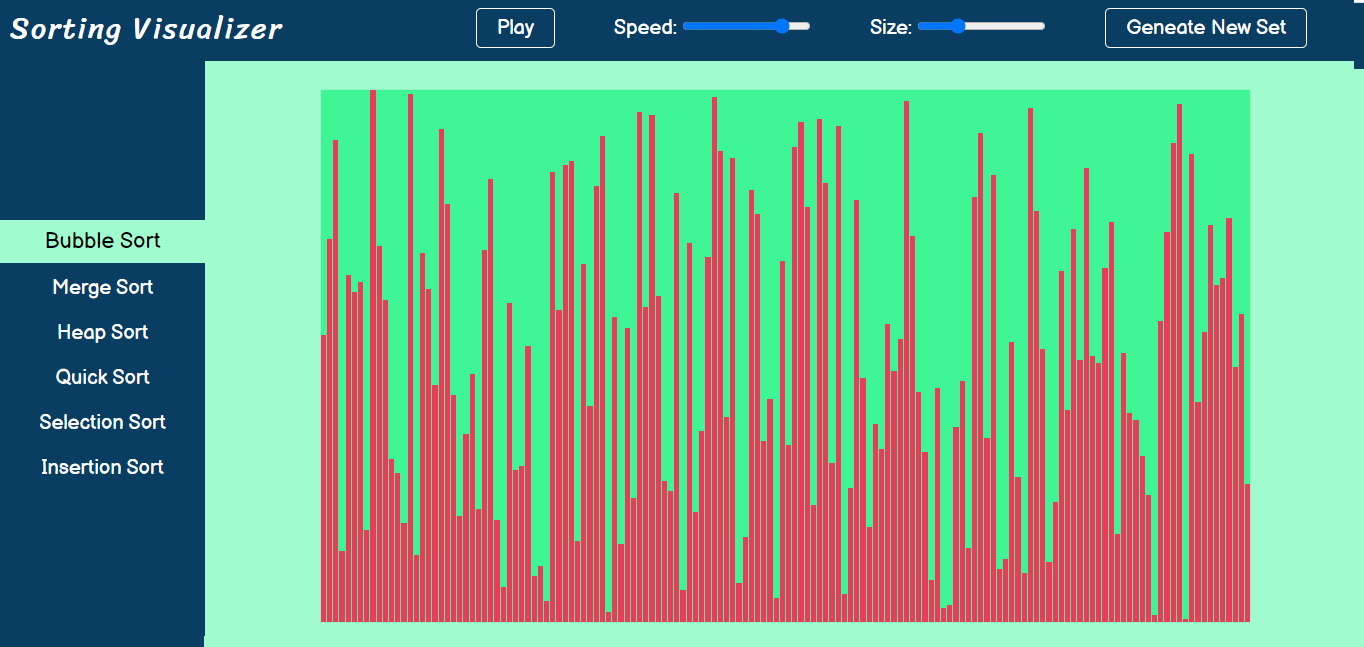
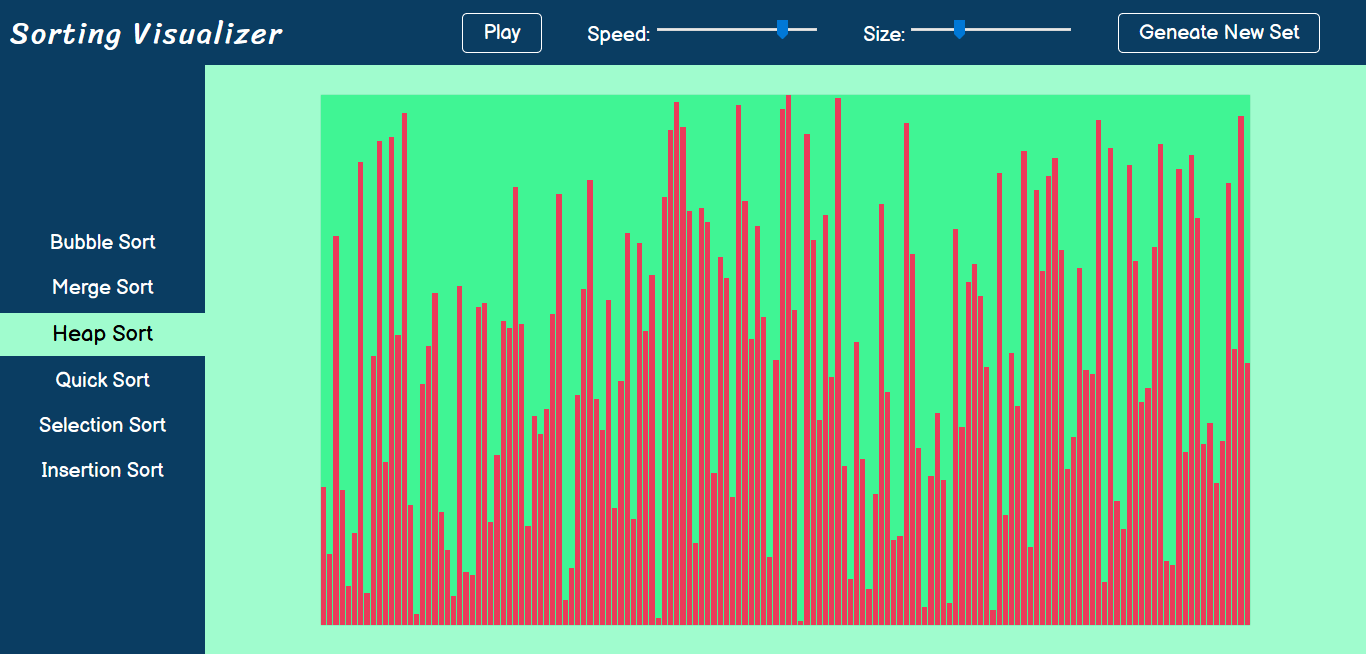
added images to all projects

diff --git a/portfolioPages/data_json.js b/portfolioPages/data_json.js
@@ -2,7 +2,7 @@ let jsonData = {
     section1: {
         id:1,
         title: "Vanilla JS Projects",
-        count: 2,
+        count: 4,
         tiles: {
             tile1:{
                 id: 1,
@@ -13,11 +13,25 @@ let jsonData = {
             },
             tile2:{
                 id: 2,
-                name: "Jokes API",
-                description:"Lorem ipsum dolor sit amet consectetur adipisicing elit. Vitae, reiciendis!",
+                name: "Sorting Visualizer",
+                description:"Visualize the sorting algoriths using an unsorted array of custom length at custom speeds. The sorting methods available are Heap Sort, Merge Sort, Quick Sort, Bubble Sort, Insertion Sort, Selection Sort.",
+                imgSrc:"img_proj/sorting.png",
+                link:"https://stephenmarri.github.io/js_projects/sortingVisualizer/"
+            },
+            tile3:{
+                id: 3,
+                name: "Mathematical Functions",
+                description:"A page that helps to validate if a given number meets a particular known criteria. The criterion being Prime, Palindrom, Fibonacci, Perfect Square and Perfect cube.",
                 imgSrc:"img_proj/math.png",
-                link:"https://stephenmarri.github.io/js_projects/ciphers/"
-            }
+                link:"https://stephenmarri.github.io/js_projects/mathFunctions/"
+            },
+            tile4:{
+                id: 4,
+                name: "Jokes API",
+                description:"A page that fetches jokes from free API endpoints. The caterogies or APIs for this jokes are related ro referenced to Chuck Norris API, icanhazdadjokes API, Geek Jokes api from a user of GitHub",
+                imgSrc:"img_proj/dadjokes.png",
+                link:"https://stephenmarri.github.io/singletons/randomDadJokes/"
+            },
         }
     },
     section2: {
@@ -111,38 +125,38 @@ let jsonData = {
         tiles: {
             tile1:{
                 id: 1,
-                name: "Encryption Algorithms",
-                description:"A utility which converts or encrypts a given senctence or phrase into and encrypted version using the Ceaser's Cipher mechanism. It also converts using a secret key.",
-                imgSrc:"img_proj/ciphers.png",
-                link:"https://stephenmarri.github.io/js_projects/ciphers/"
+                name: "Documentation Pages",
+                description:"",
+                imgSrc:"img_proj/fcc_documentation.png",
+                link:"https://stephenmarri.github.io/freeCodeCampActivites/documentationPages/"
             },
             tile2:{
                 id: 2,
-                name: "Jokes API",
+                name: "Tribute Pages",
                 description:"Lorem ipsum dolor sit amet consectetur adipisicing elit. Vitae, reiciendis!",
-                imgSrc:"img_proj/ciphers.png",
-                link:"https://stephenmarri.github.io/js_projects/ciphers/"
+                imgSrc:"img_proj/fcc_tribute.jpg",
+                link:"https://stephenmarri.github.io/freeCodeCampActivites/tributePages/"
             },
             tile3:{
                 id: 3,
-                name: "Jokes API",
+                name: "Product Landing Page",
                 description:"Lorem ipsum dolor sit amet consectetur adipisicing elit. Vitae, reiciendis!",
-                imgSrc:"img_proj/ciphers.png",
-                link:"https://stephenmarri.github.io/js_projects/ciphers/"
+                imgSrc:"img_proj/fcc_landing.png",
+                link:"https://stephenmarri.github.io/freeCodeCampActivites/landingPages/"
             },
             tile4:{
                 id: 4,
-                name: "Jokes API",
+                name: "Survey Forms",
                 description:"Lorem ipsum dolor sit amet consectetur adipisicing elit. Vitae, reiciendis!",
-                imgSrc:"img_proj/ciphers.png",
-                link:"https://stephenmarri.github.io/js_projects/ciphers/"
+                imgSrc:"img_proj/fcc_form.png",
+                link:"https://stephenmarri.github.io/freeCodeCampActivites/surveyForms/"
             },
             tile5:{
                 id: 5,
-                name: "Jokes API",
+                name: "Portfolio Page",
                 description:"Lorem ipsum dolor sit amet consectetur adipisicing elit. Vitae, reiciendis!",
-                imgSrc:"img_proj/ciphers.png",
-                link:"https://stephenmarri.github.io/js_projects/ciphers/"
+                imgSrc:"img_proj/fcc_portfolio.png",
+                link:"https://stephenmarri.github.io/freeCodeCampActivites/portfolioPages/index.html"
             }
         }
     },
@@ -156,36 +170,36 @@ let jsonData = {
                 id: 1,
                 name: "Project Euler",
                 description:"Solutions to the problems found on the popular website ProjectEuler.net. Solved the first 30 questions myself in Python and JavaScript. My Solutions can be accssed from the below link.",
-                imgSrc:"img_proj/ciphers.png",
-                link:"https://stephenmarri.github.io/js_projects/ciphers/"
+                imgSrc:"img_proj/project_euler.png",
+                link:"https://github.com/stephenmarri/project_euler"
             }
         }
     },
     section6: {
         id:6,
-        title: "Single Utility Pages",
+        title: "Miniature Projects",
         count: 3,
         tiles: {
             tile1: {
                 id: 1,
                 name: "CSS Search Box",
                 description:"A simple page with a interactive search box that expands on hovering.",
-                imgSrc:"img_proj/ciphers.png",
+                imgSrc:"img_proj/min_search.png",
                 link:"https://stephenmarri.github.io/singletons/interactiveSearchBox/"
             },
             tile2:{
                 id: 2,
                 name: "Sample Sprite",
                 description:"A Simple sprite animation of a running girl",
-                imgSrc:"img_proj/ciphers.png",
+                imgSrc:"img_proj/min_sprite.png",
                 link:"https://stephenmarri.github.io/singletons/sprites/index.html"
             },
             tile3:{
                 id: 3,
-                name: "Sample Sprite",
-                description:"A Simple sprite animation of a running girl",
-                imgSrc:"img_proj/ciphers.png",
-                link:"https://stephenmarri.github.io/singletons/sprites/index.html"
+                name: "Quizzes",
+                description:"Three quizzed and two with pictures",
+                imgSrc:"img_proj/min_quiz.png",
+                link:"https://stephenmarri.github.io/quizzes/scripture/wit-img/"
             }
         }
     }
